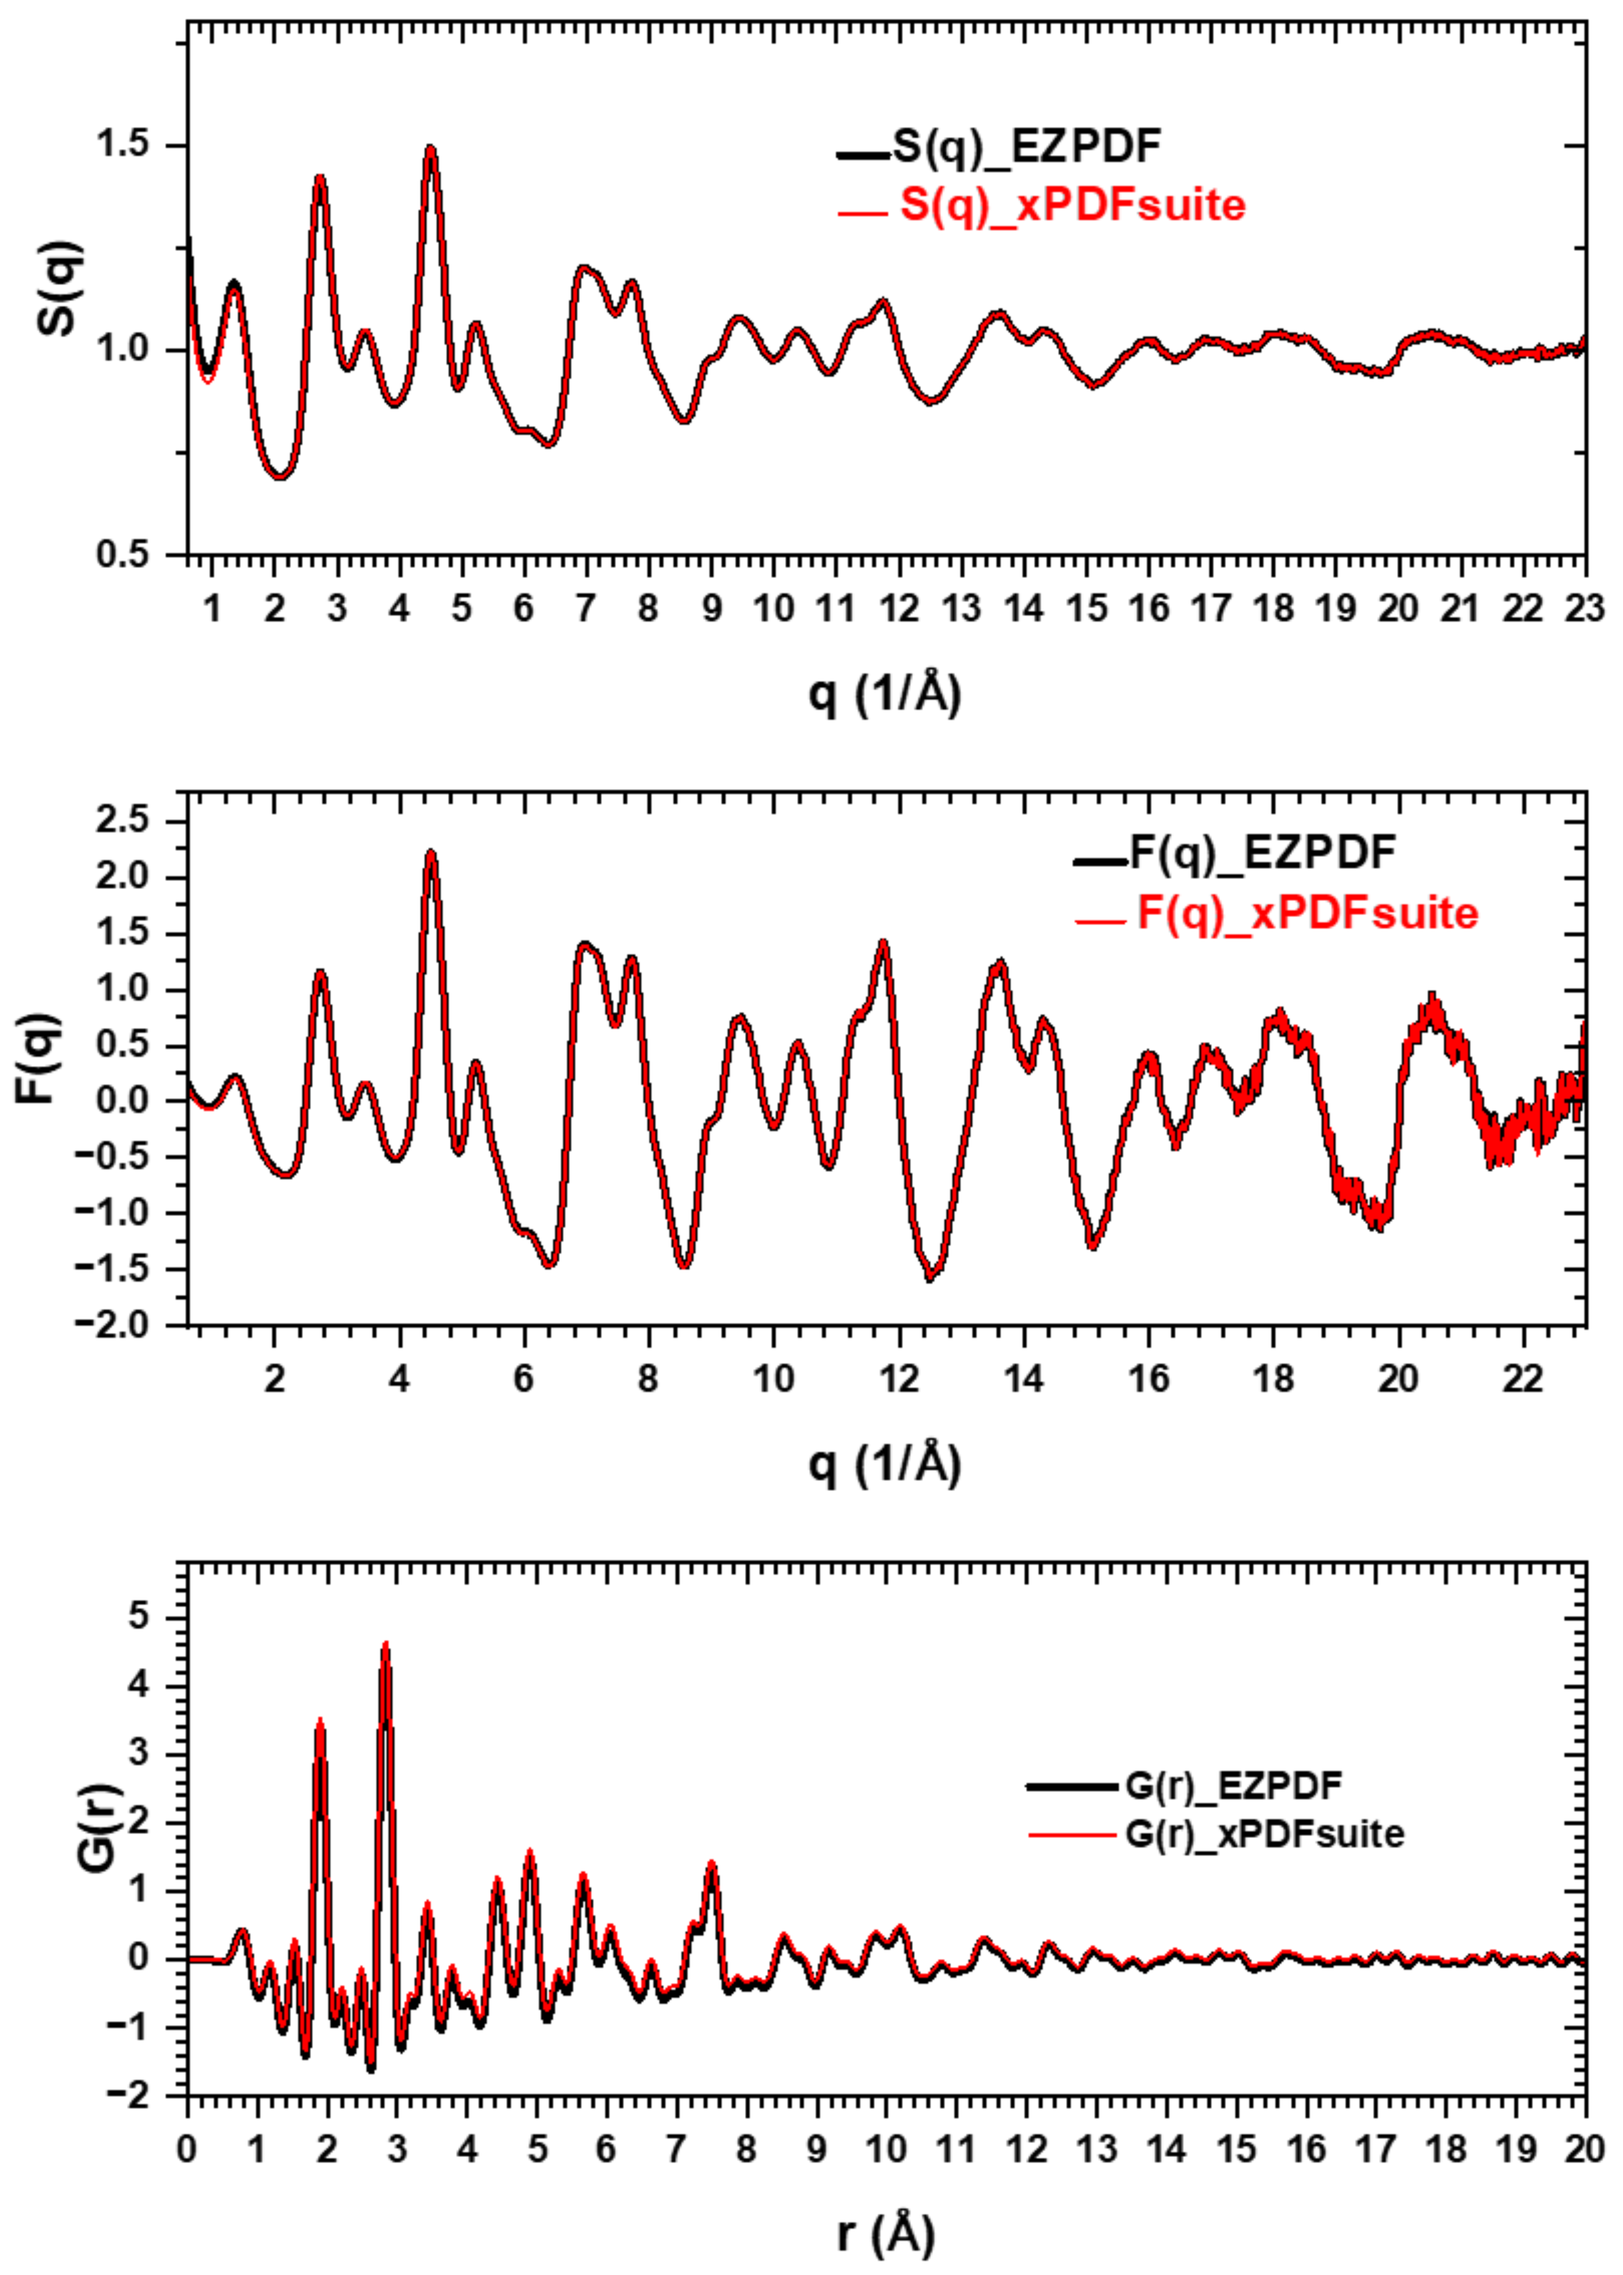
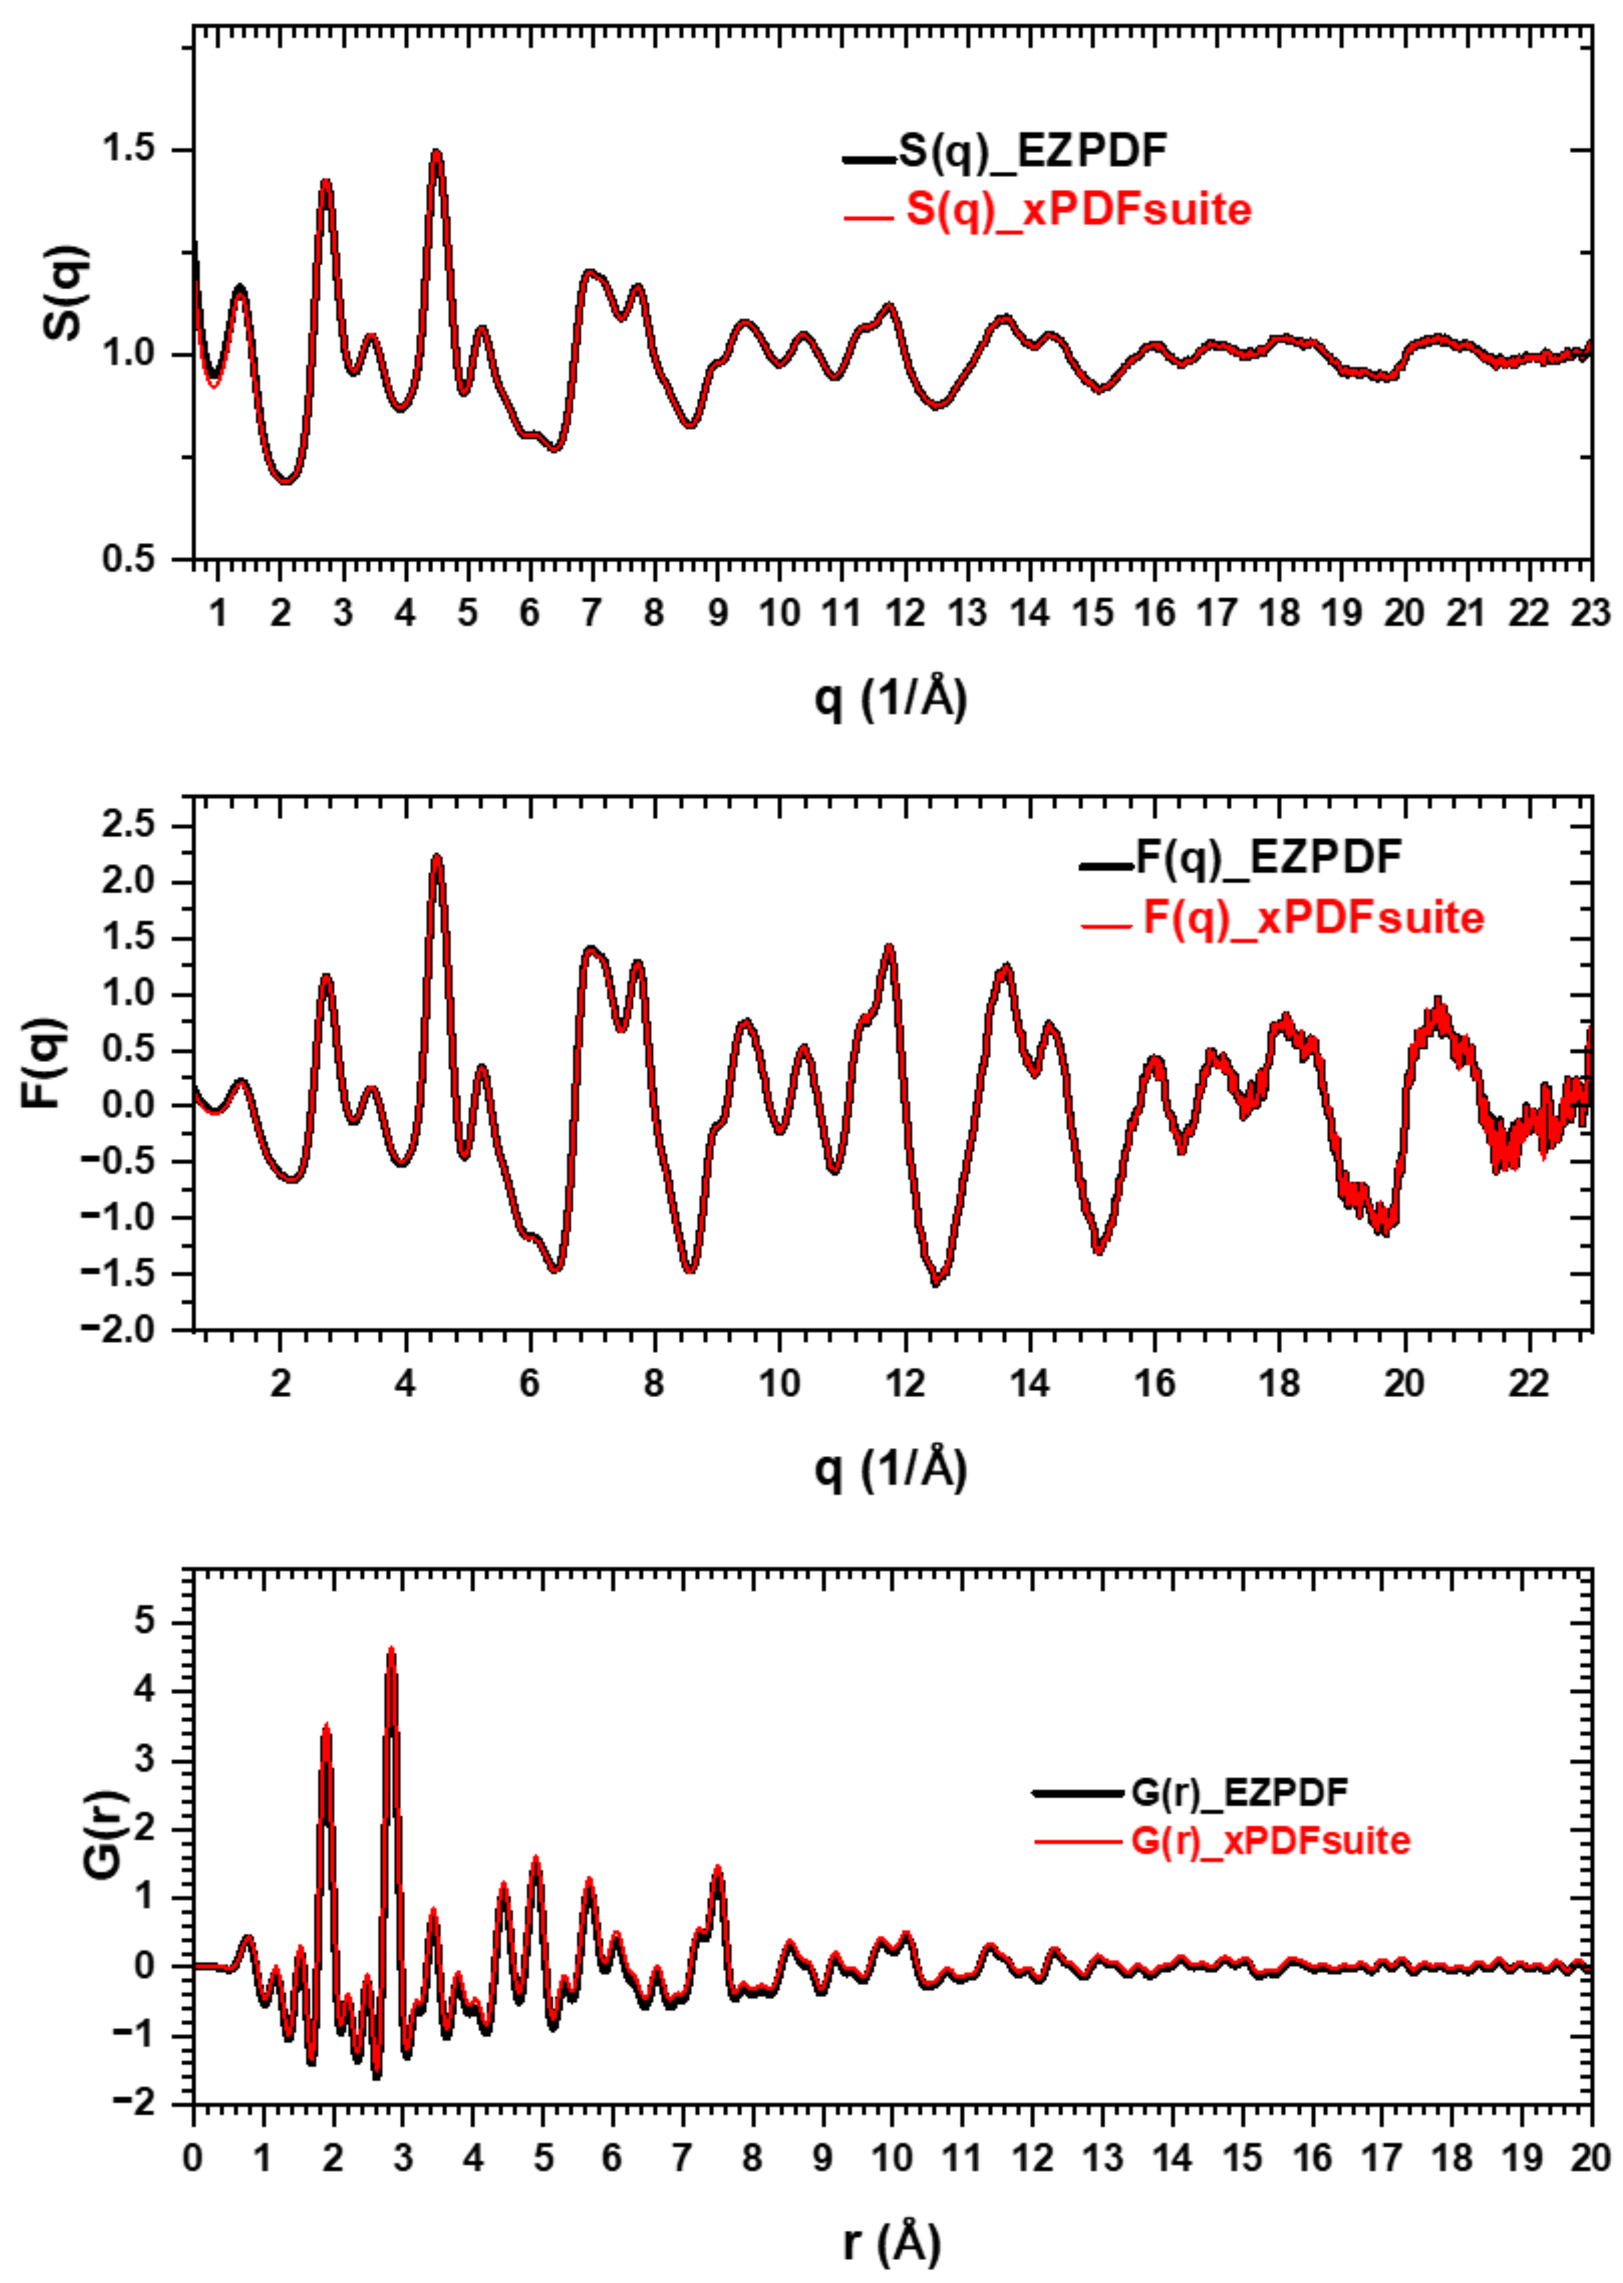
update tutorial

diff --git a/docs/tutorial.md b/docs/tutorial.md
@@ -289,7 +289,7 @@ The experimental structure function S(q) is obtained from the background-subtrac
 As an illustrative example, data from disordered cobalt oxide is presented. 
 The top panel displays the scattering intensities for the cobalt oxide sample(black), the background (red), and the resulting background-subtracted data(blue). 
 I(q) is plotted on a logarithmic scale, which provides a much clearer visualization of the subtracted data compared to a linear scale.
-The middle panel shows the structure function, S(q), calculated from the background-subtracted data (the blue curve in the leftmost plot). 
+The middle panel shows the structure function, S(q), calculated from the background-subtracted data. 
 This particular result arises because unwanted signals were not perfectly eliminated. By applying a polynomial correction to the calculated S(q), 
 the peaks are adjusted to oscillate around unity (1). The low panel demonstrates how polynomials of two different degrees fit the calculated S(q) data. 
 For better visualization, these polynomials were shifted by an offset of 1 and superimposed onto the S(q) plot. 
@@ -311,14 +311,21 @@ Consequently, the final interpolated polynomial correction function is derived a
 
 ![S(q)_calculation_polynomials.png](S(q)_calculation_polynomials.png)
 
-The top graph in the second set depicts the data length required before performing an Inverse Fast Fourier Transform (IFFT), which requires padding data from 0 to qmin (red) and after qmax (blue). 
-Although an integral function can calculate the data from qminto qmax without padding, the process is much slower than the IFFT method.
-The middle and bottom graphs evaluate how various padding methods after qmax influence the resulting G(r), showing no significant difference between Zero, Constant, and Decay padding for distances above 1 Å. 
+The top graph in the second set depicts the data length required before performing an Inverse Fast Fourier Transform (IFFT), 
+which requires padding data from 0 to qmin (red) and after qmax (blue). 
+Although an integral function can calculate the data from qmin to qmax without padding, the process is much slower than the IFFT method.
+The second, third, and bottom graphs evaluate how various padding methods after qmax influence the resulting G(r), 
+showing no significant difference between Zero, Constant, and Decay padding for distances above 1 Å. 
 Consequently, the EZPDF GUI version uses Zero padding for any data added after qmax.
+
 
 ![Pad_F(q)_Gr result.png](Pad_F(q)_Gr result.png)
 
-The final figure's left plot displays the calculated S(q) (black), the fitted polynomial(red), and the resulting normalized S(q)(blue) that oscillates around 1. The right plot illustrates the pair distribution function G(r), revealing that using a high-order polynomial leads to a loss of peaks in the low-r region(red). This occurs because the high-order polynomial subtracts an excessive amount of intensity from the original calculated S(q).
+How  polynomial subtraction in S(q) affect on G(r):
+The  top figure display how two different polynomial orders are superimposed on S(q). 
+The bottom plot illustrates the pair distribution function G(r), revealing that using a high-order polynomial leads to a loss of peaks in the low-r region(red). 
+This occurs because the high-order polynomial subtracts an excessive amount of intensity from the original calculated S(q).
+
 
 ![Polynomial_low_r_Gr.png](Polynomial_low_r_Gr.png)
 
